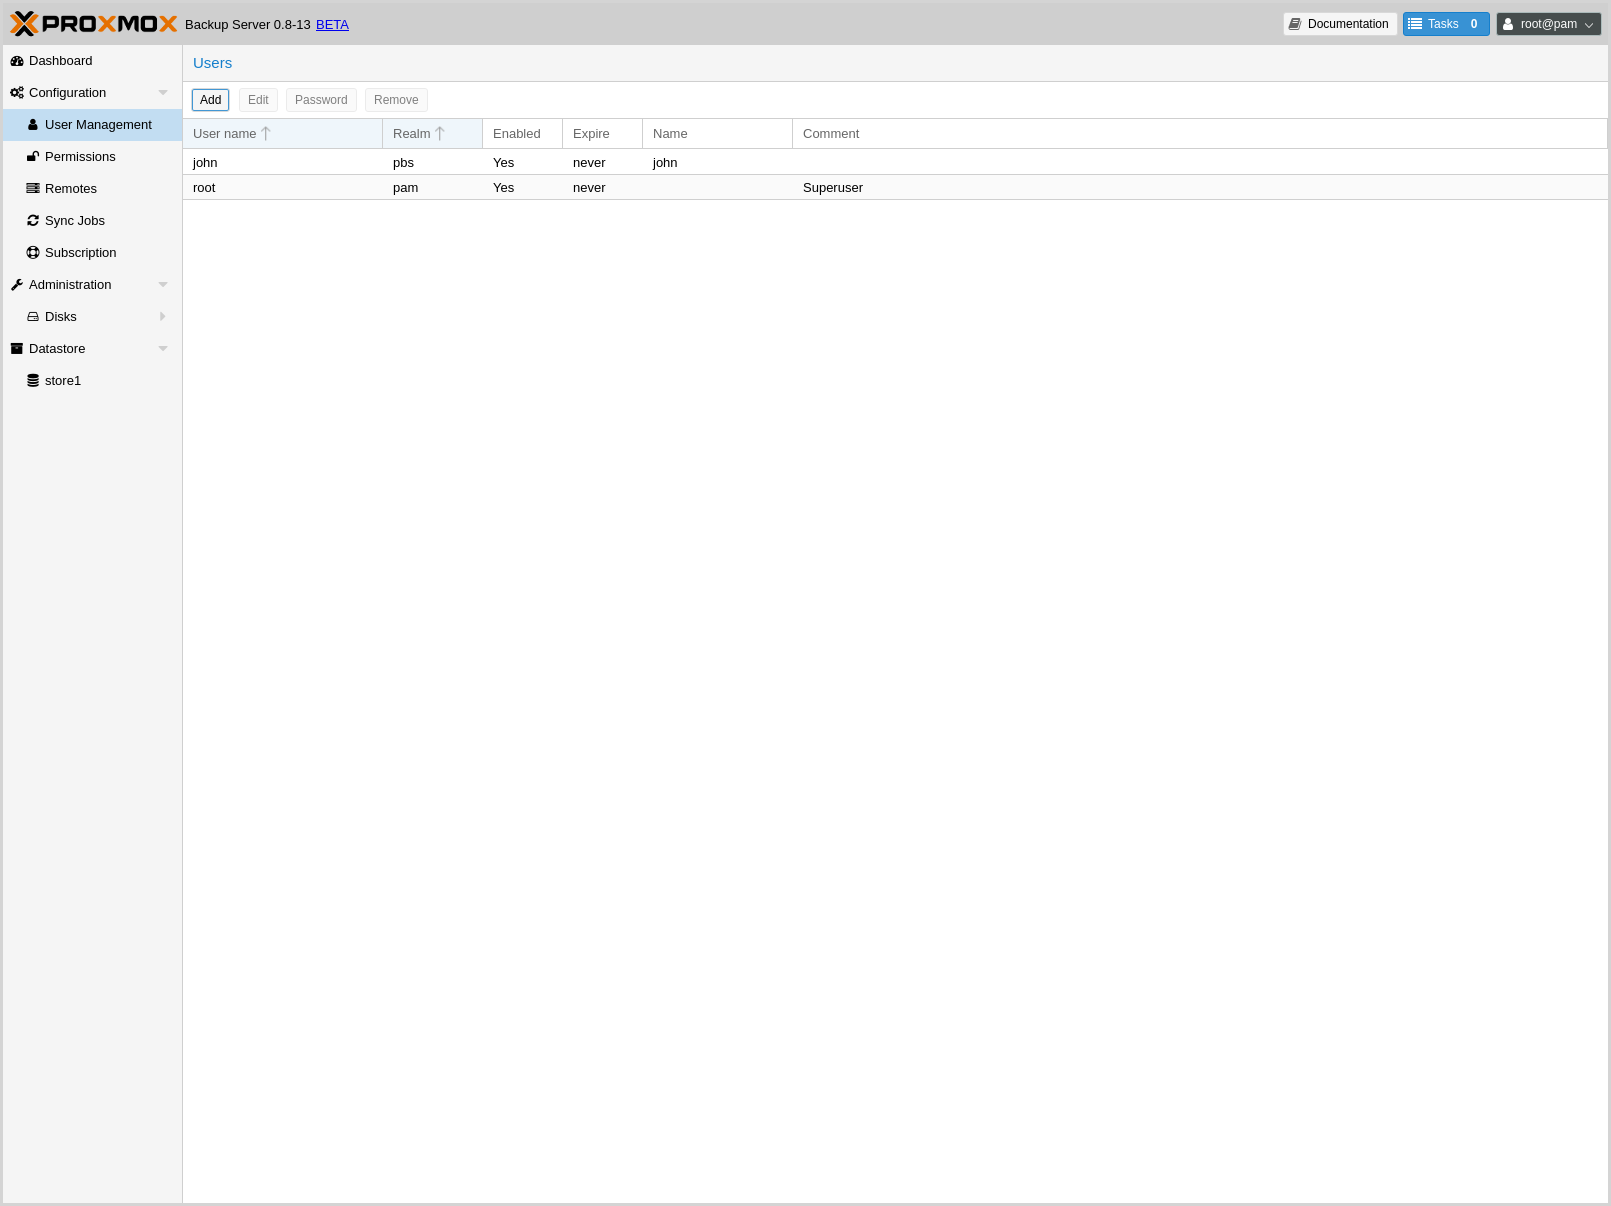
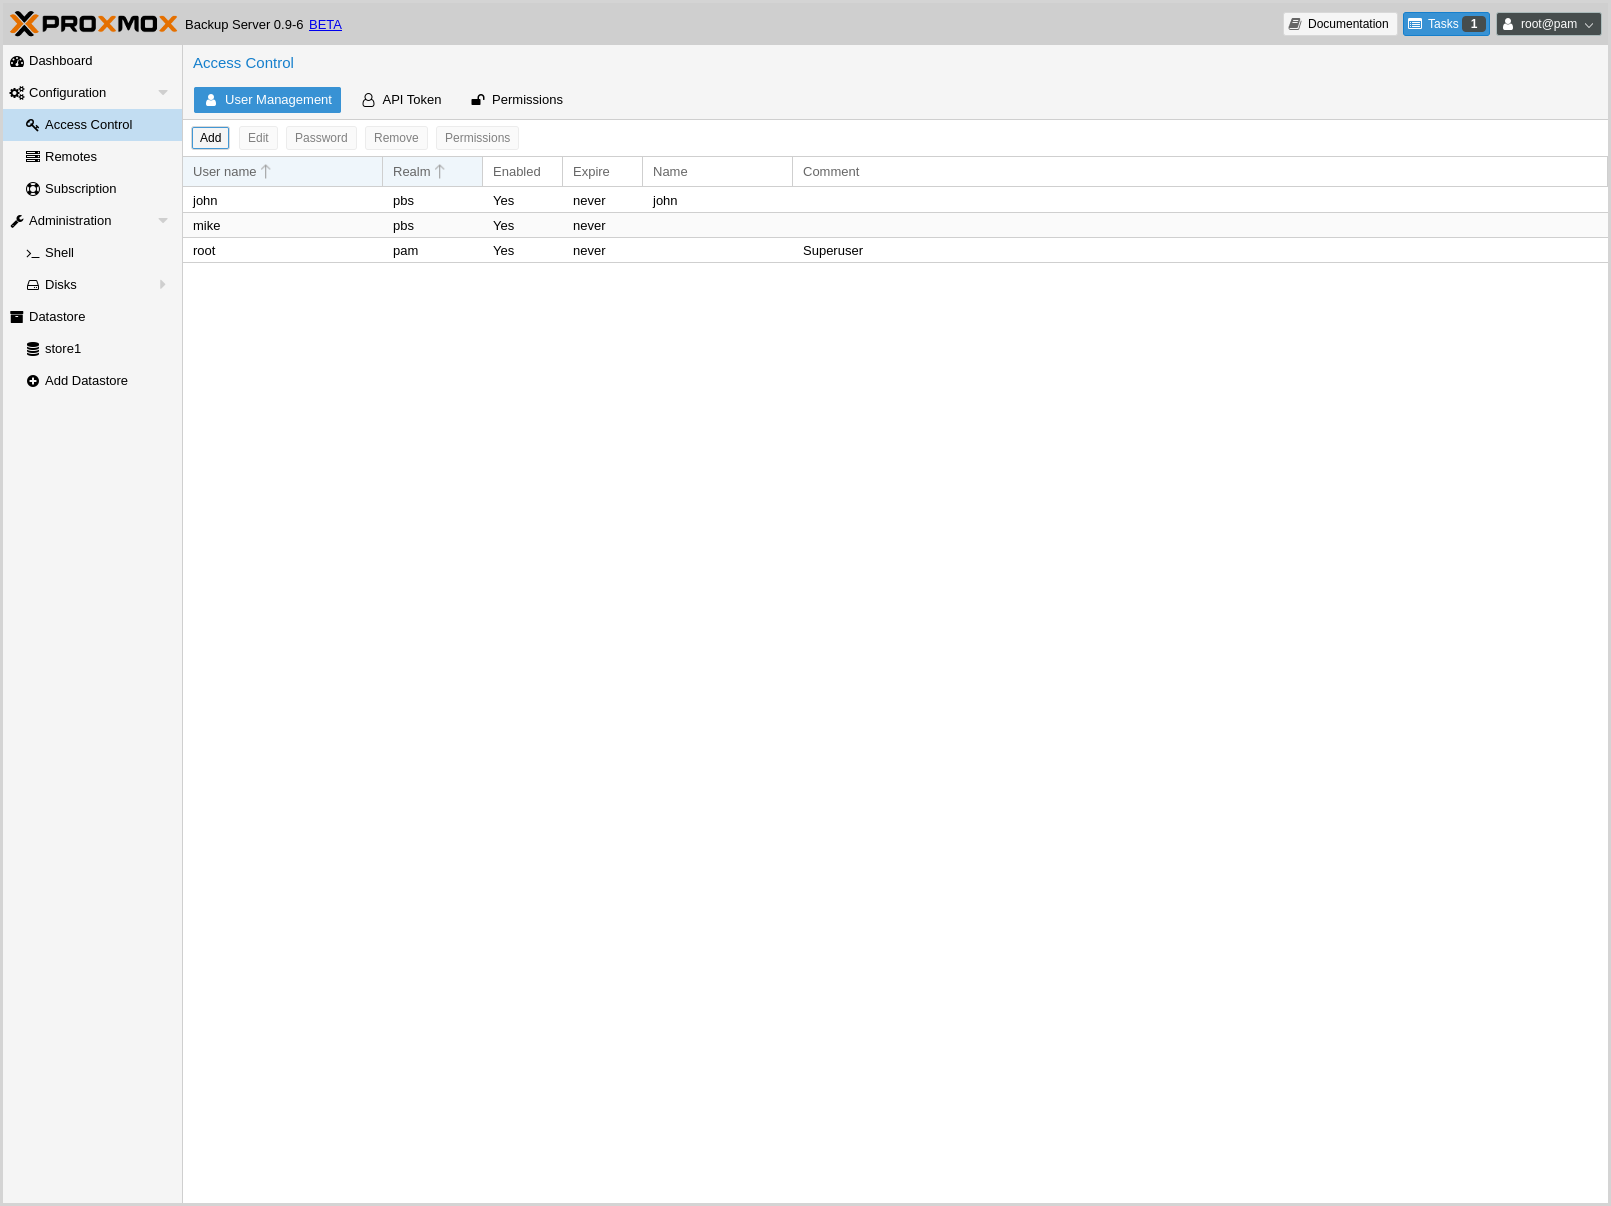
Add screenshots
For:
- api tokens
- new user management interface
- updatae server administration

diff --git a/docs/user-management.rst b/docs/user-management.rst
@@ -91,6 +91,10 @@ Or completely remove the user with:
 API Tokens
 ----------
 
+.. image:: images/screenshots/pbs-gui-apitoken-overview.png
+  :align: right
+  :alt: API Token Overview
+
 Any authenticated user can generate API tokens which can in turn be used to
 configure various clients, instead of directly providing the username and
 password.
@@ -104,6 +108,10 @@ An API token consists of two parts: an identifier consisting of the user name,
 the realm and a tokenname (``user@realm!tokenname``), and a secret value. Both
 need to be provided to the client in place of the user ID (``user@realm``) and
 the user password, respectively.
+
+.. image:: images/screenshots/pbs-gui-apitoken-secret-value.png
+  :align: right
+  :alt: API secret value
 
 The API token is passed from the client to the server by setting the
 ``Authorization`` HTTP header with method ``PBSAPIToken`` to the value
@@ -185,7 +193,7 @@ following roles exist:
 **RemoteSyncOperator**
   Is allowed to read data from a remote.
 
-.. image:: images/screenshots/pbs-gui-permissions-add.png
+.. image:: images/screenshots/pbs-gui-user-management-add-user.png
   :align: right
   :alt: Add permissions for user
 
